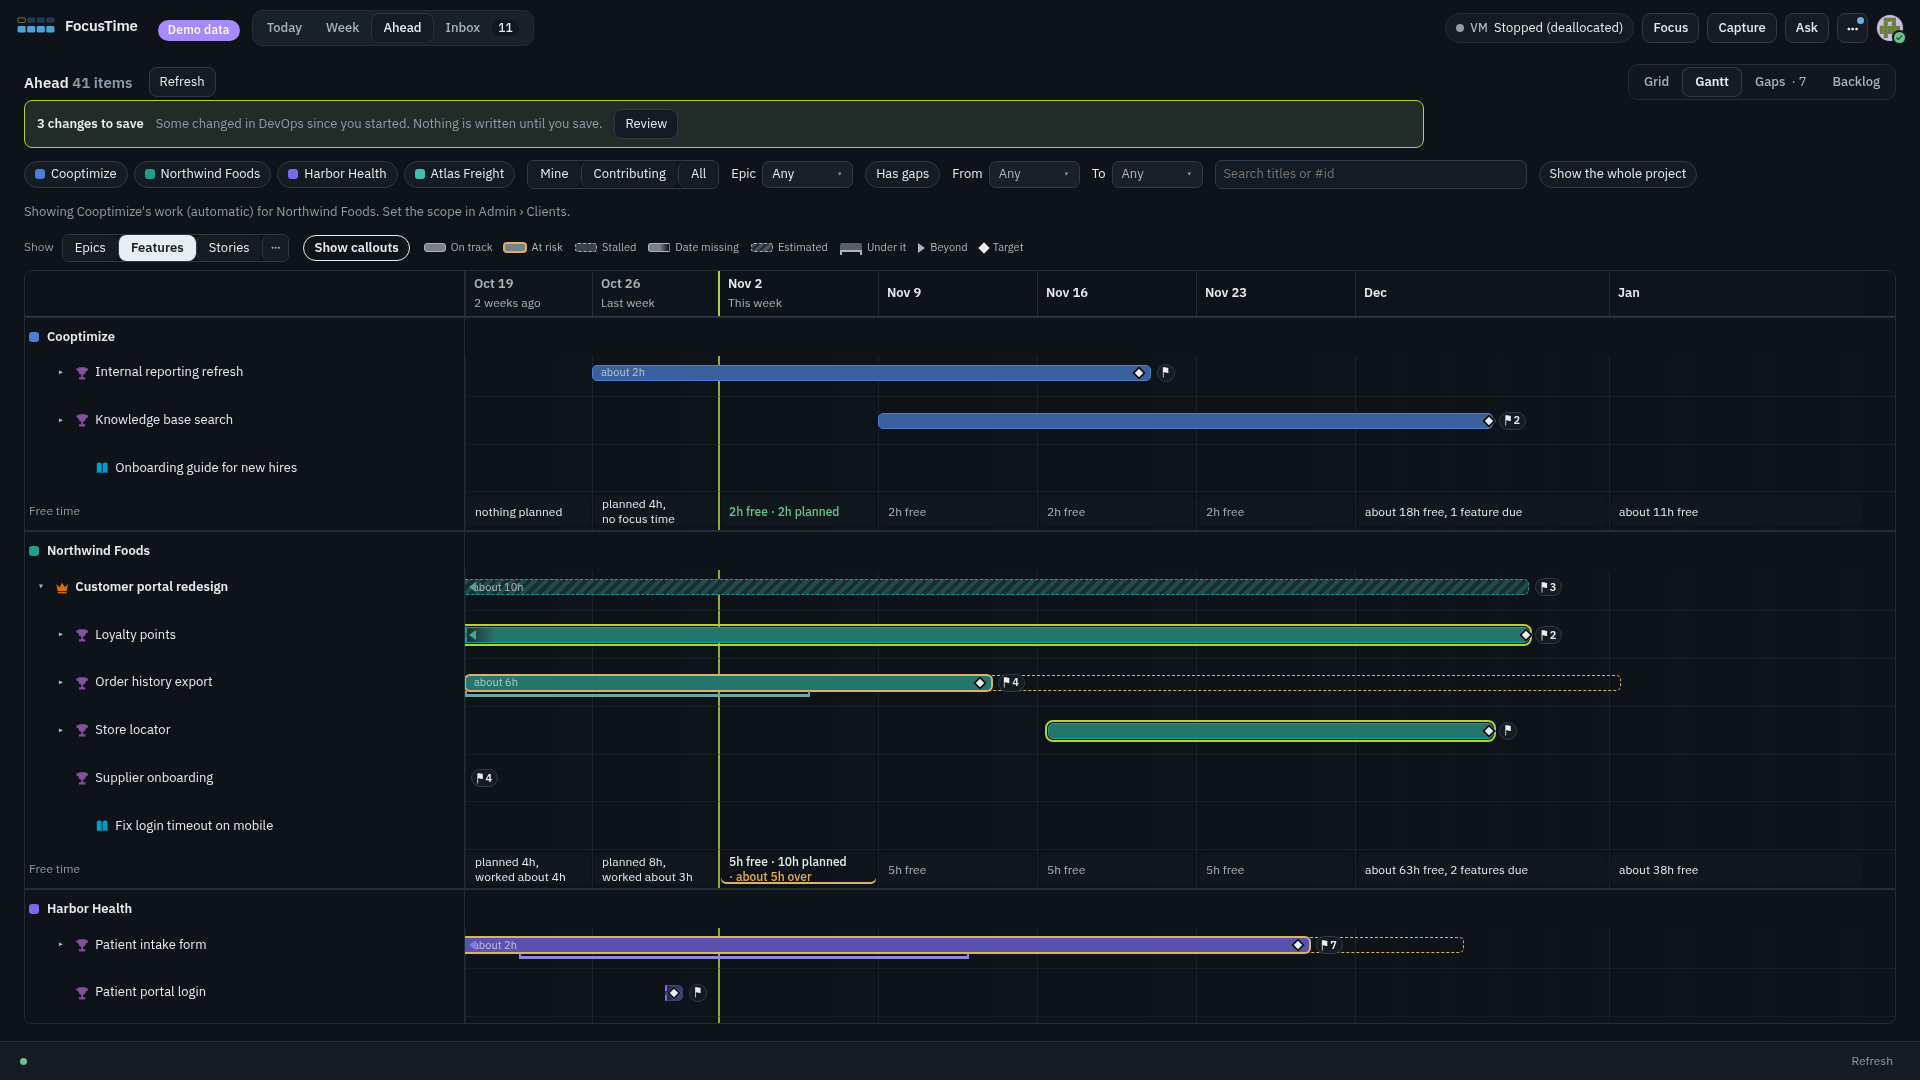
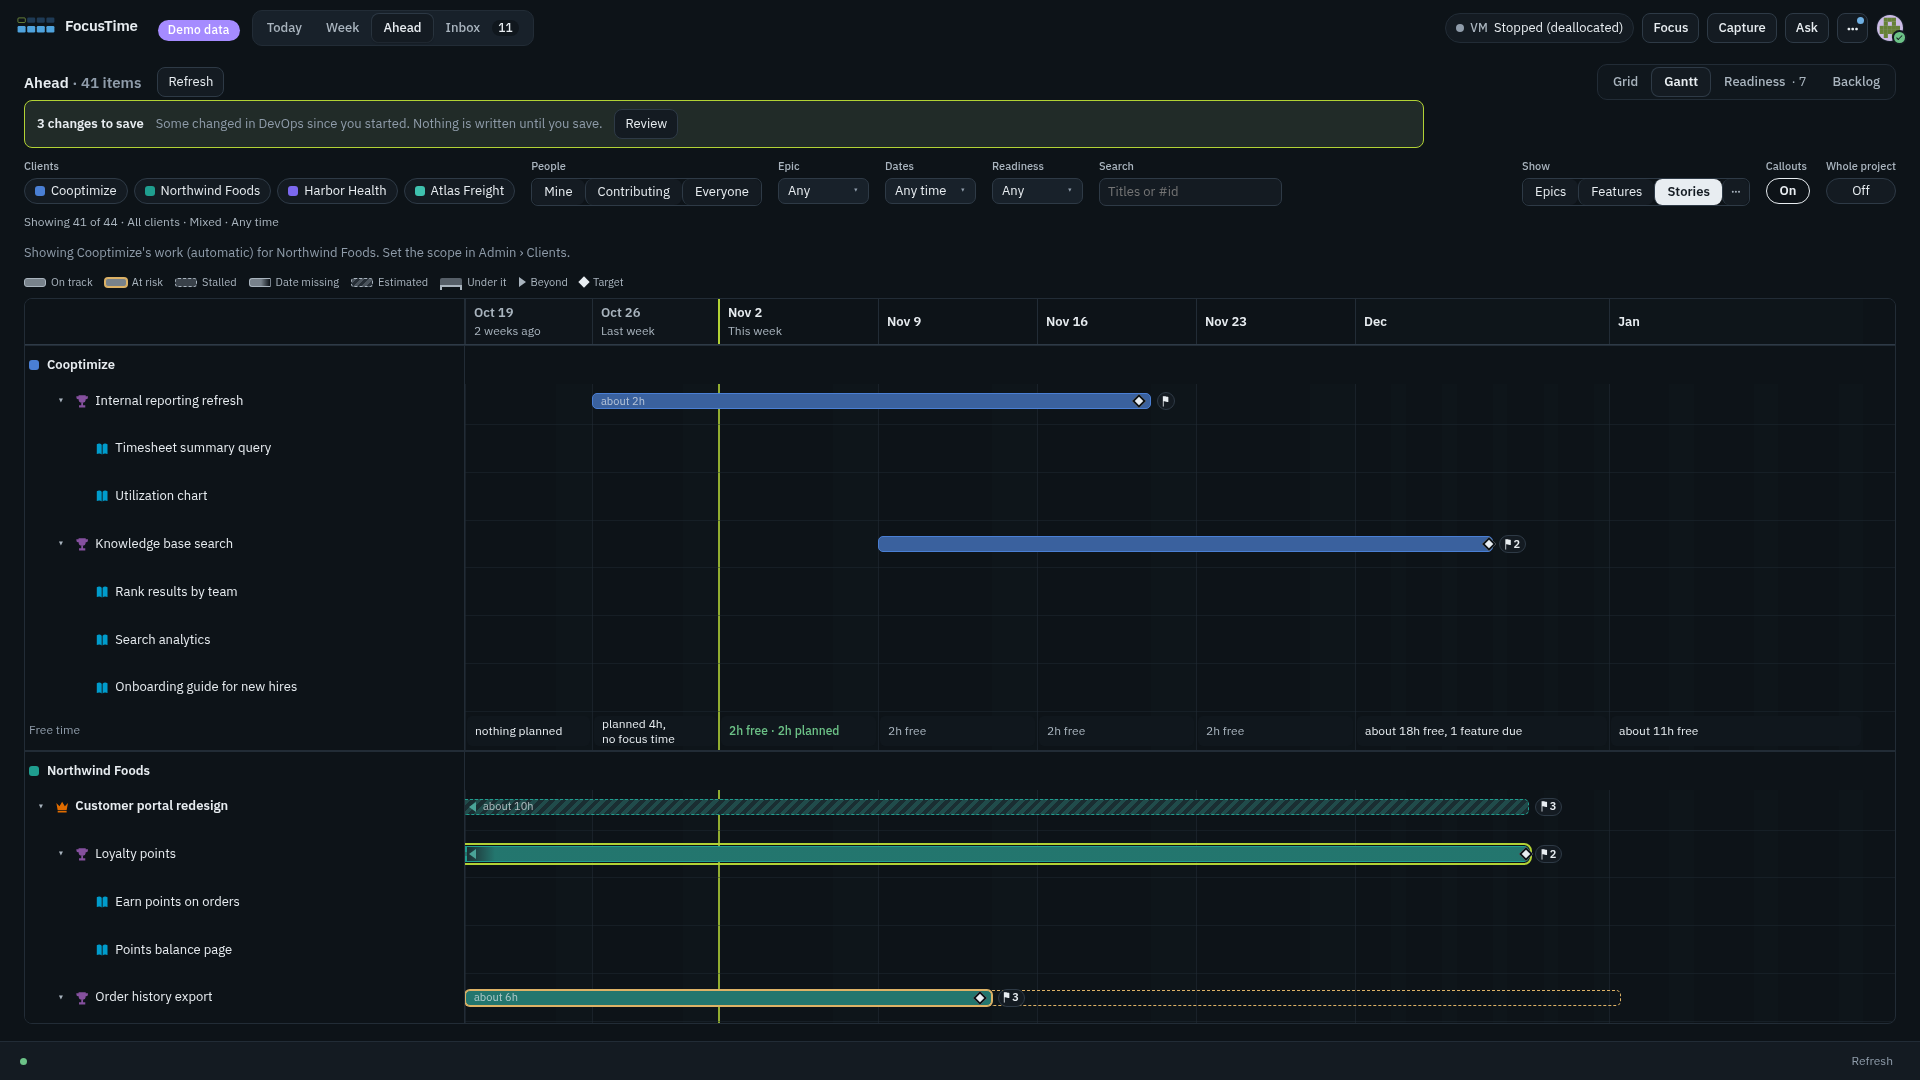
AH-6: screenshots (demo data) with the shared toolbar: every mode at 1440 and 1920, each at Text size Larger, the levels per mode, Readiness; a filtered empty Readiness client says so
Claude-Session: https://claude.ai/code/session_01MZF2GqSKR8KFtD92Gtxd7G

diff --git a/e2e/ah6-toolbar.test.ts b/e2e/ah6-toolbar.test.ts
@@ -6,7 +6,7 @@
 import { afterAll, beforeAll, describe, expect, it } from "vitest";
 import type { Page } from "playwright-core";
 import { CHROMIUM, freshPage, startDemo, type Harness } from "./harness.ts";
-import { SHOTS } from "./shots.ts";
+import { shotBoth, SHOTS } from "./shots.ts";
 
 let h: Harness;
 const T = 120_000;
@@ -38,9 +38,7 @@ describe.skipIf(!CHROMIUM)("AH-6: Ahead's one toolbar (browser, demo mode)", () 
   const structure = (page: Page) =>
     page.locator(".ah-toolbar .ah-tb-group").evaluateAll((gs) => gs.map((g) => `${g.getAttribute("data-control")}${g.classList.contains("off") ? ":off" : ""}`));
   const summary = (page: Page) => page.locator(".ah-tb-sumtext").textContent();
-  const shot = async (page: Page, name: string) => {
-    if (SHOTS) await page.screenshot({ path: `${SHOTS}/${name}.png` });
-  };
+  const shot = (page: Page, name: string) => shotBoth(page, name);
 
   it("the same groups in the same order in every mode; what can't apply is disabled with its reason, never removed", async () => {
     const { page, errors } = await open("#/ahead");
@@ -222,6 +220,16 @@ describe.skipIf(!CHROMIUM)("AH-6: Ahead's one toolbar (browser, demo mode)", () 
       await expect(page.locator(".mode-switch .ms-btn").allTextContents()).resolves.toEqual(["Grid", "Gantt", expect.stringMatching(/^Readiness · \d+$/), "Backlog"]);
       if (hash === "#/ahead/fix") await shot(page, "readiness");
       expect(errors).toEqual([]);
+      await page.close();
+    }
+  }, T);
+
+  it.skipIf(!SHOTS)("screenshots at 1920: the same filters in every mode", async () => {
+    const q = "c=Northwind,Harbor&o=Northwind~all,Harbor~all&nr=1&l=feature";
+    for (const m of MODES) {
+      const { page } = await open(`${m.hash}?${q}`, { width: 1920, height: 1080 });
+      await page.waitForTimeout(600);
+      await shotBoth(page, `toolbar-1920-${m.name.toLowerCase()}`);
       await page.close();
     }
   }, T);

diff --git a/ui/ahead/FixNext.tsx b/ui/ahead/FixNext.tsx
@@ -95,7 +95,7 @@ function FixRowView({ r, entry, depth, skip, dots, fold }: { r: Row; entry: FixE
   );
 }
 
-function ClientFix({ client, group, rows, skip, dots }: { client: LoadClient; group: FixGroup; rows: Row[]; skip: (k: string) => void; dots: boolean }) {
+function ClientFix({ client, group, rows, skip, dots, filtered }: { client: LoadClient; group: FixGroup; rows: Row[]; skip: (k: string) => void; dots: boolean; filtered: boolean }) {
   const a = useAhead();
   const [all, setAll] = useState(false);
   const n = group.entries.length;
@@ -127,7 +127,7 @@ function ClientFix({ client, group, rows, skip, dots }: { client: LoadClient; gr
       </h3>
       {group.rankedBy === "target" && n > 0 && <p className="muted ah-fx-note">{client.project ?? client.clientName} has no backlog order, so these are ranked by target date.</p>}
       {n === 0 ? (
-        <p className="muted ah-fx-note">Nothing to fix near the top of the backlog or in the next 4 weeks.</p>
+        <p className="muted ah-fx-note">{filtered ? "Nothing here matches these filters." : "Nothing to fix near the top of the backlog or in the next 4 weeks."}</p>
       ) : (
         <ol className="ah-fx-list">
           {shown.map(({ x, f }) => <FixRowView key={x.key} r={byId.get(x.itemId)!} entry={x.entry} depth={x.depth} skip={skip} dots={dots} fold={f} />)}
@@ -154,7 +154,7 @@ export function FixNext({ groups, skip, dots, filtered = false }: { groups: { cl
             ? "Nothing not ready matches these filters."
             : "Nothing to fix on items you can change. The top of each backlog has its stories, dates, owners and sizes."}
       </p>
-      {groups.map((g) => <ClientFix key={g.client.clientKey} {...g} skip={skip} dots={dots} />)}
+      {groups.map((g) => <ClientFix key={g.client.clientKey} {...g} skip={skip} dots={dots} filtered={filtered} />)}
     </div>
   );
 }
